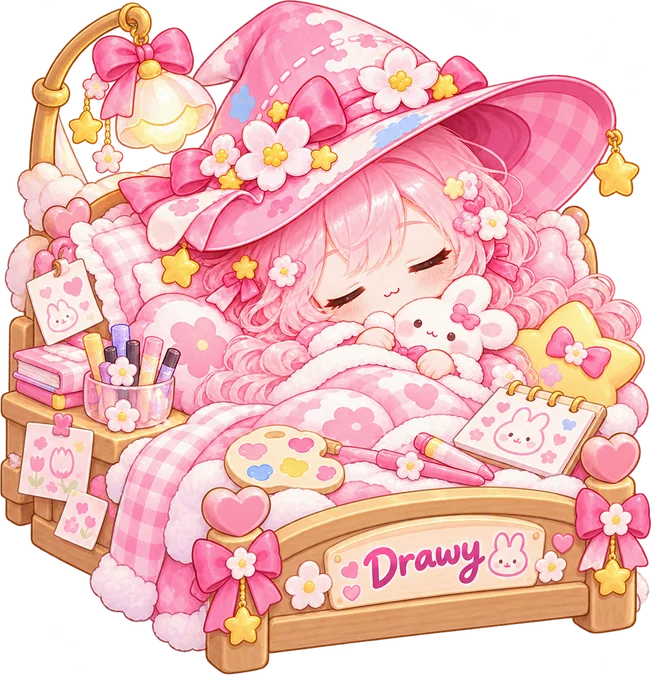
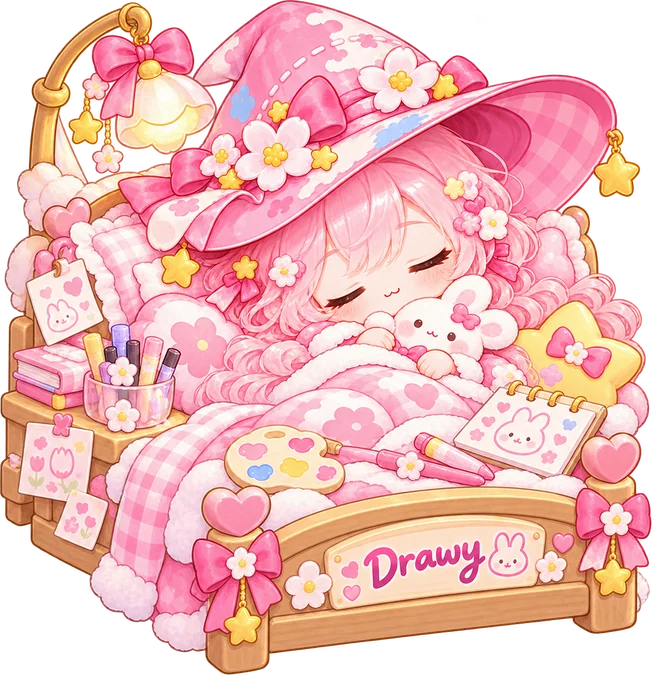
Update Notedy cloud app

diff --git a/sw.js b/sw.js
@@ -1,5 +1,5 @@
 /* Notedy cloud PWA: cache the app shell so it opens instantly; the Google script API is never cached. */
-var CACHE = "notedy-cloud-v14";
+var CACHE = "notedy-cloud-v15";
 var SHELL = ["./", "index.html", "style.css", "app.js", "manifest.webmanifest", "icons/icon-192.png", "icons/icon-512.png", "icons/apple-touch-icon.png", "icons/favicon-64.png", "assets/Notedy.png", "assets/Drivee.png", "office/office.css", "office/office_render.js", "office/assets.json", "qr.js"];
 self.addEventListener("install", function (e) { e.waitUntil(caches.open(CACHE).then(function (c) { return c.addAll(SHELL.map(function (u) { return new Request(u, { cache: "reload" }); })); })); self.skipWaiting(); });
 self.addEventListener("activate", function (e) {
